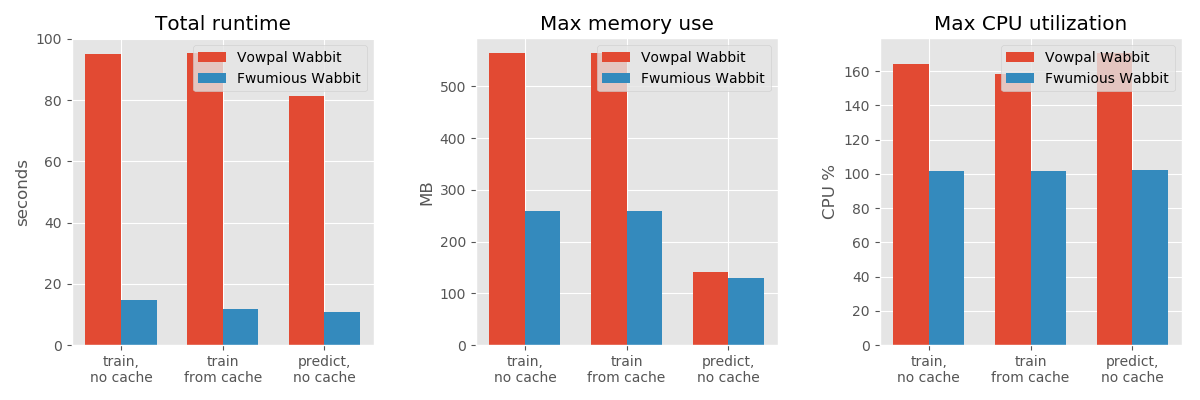
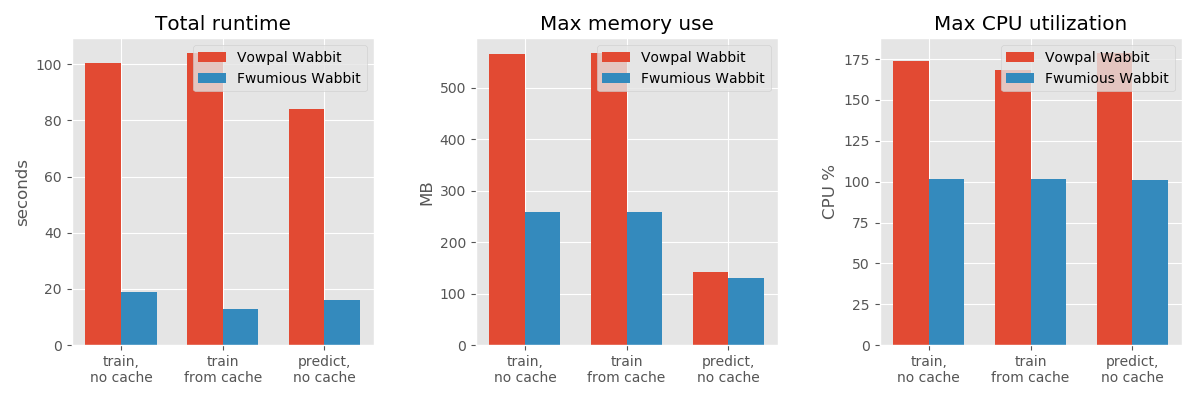
bumping version & benchmark info

diff --git a/src/version.rs b/src/version.rs
@@ -1,1 +1,1 @@
-pub static LATEST: &str = "1.3";
+pub static LATEST: &str = "0.2";

diff --git a/BENCHMARK.md b/BENCHMARK.md
@@ -14,12 +14,12 @@ here are the results for 3 runs for each scenario, taking mean values:
 ![benchmark results](benchmark_results.png)
 Scenario|Runtime (seconds)|Memory (MB)|CPU %
 ----|----:|----:|----:
-vw train, no cache|95.06 | 565 | 164.23
-fw train, no cache|14.77 | 258 | 101.97
-vw train, using cache|95.39 | 565 | 158.13
-fw train, using cache|11.70 | 258 | 101.83
-vw predict, no cache|81.49 | 141 | 170.70
-fw predict, no cache|10.64 | 130 | 102.17
+vw train, no cache|100.30 | 564 | 173.93
+fw train, no cache|18.81 | 258 | 101.80
+vw train, using cache|103.99 | 567 | 168.10
+fw train, using cache|12.84 | 258 | 101.77
+vw predict, no cache|84.07 | 141 | 178.77
+fw predict, no cache|15.90 | 130 | 100.93
 
 ### Model equivalence
 loss values for the test set:
@@ -82,7 +82,7 @@ or, if you just want the numbers with less dependencies run:
 ### versions:
 ```
 vowpal wabbit 8.9.2 (git commit: 884420267)
-fwumious wabbit 1.2 (git commit: 3e133bf)
+fwumious wabbit 0.2 (git commit: 49366eb)
 ```
 
 ### CPU Info
@@ -92,5 +92,5 @@ Intel(R) Xeon(R) CPU E5-2630 v2 @ 2.60GHz
 ### Operating System
 ```
 System: Linux
-Version: #174~14.04.1-Ubuntu SMP Thu May 9 08:17:37 UTC 2019
+Version: #151-Ubuntu SMP Fri Jun 18 19:21:19 UTC 2021
 ```
